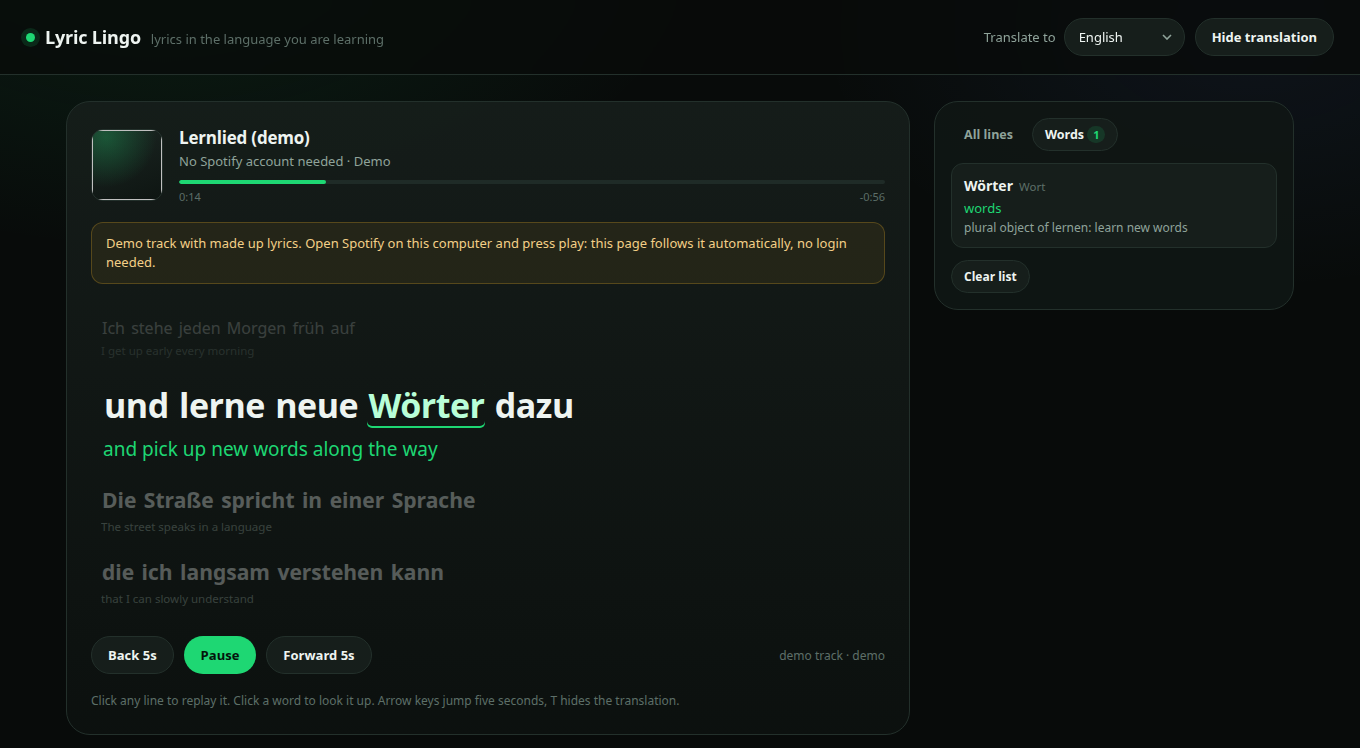
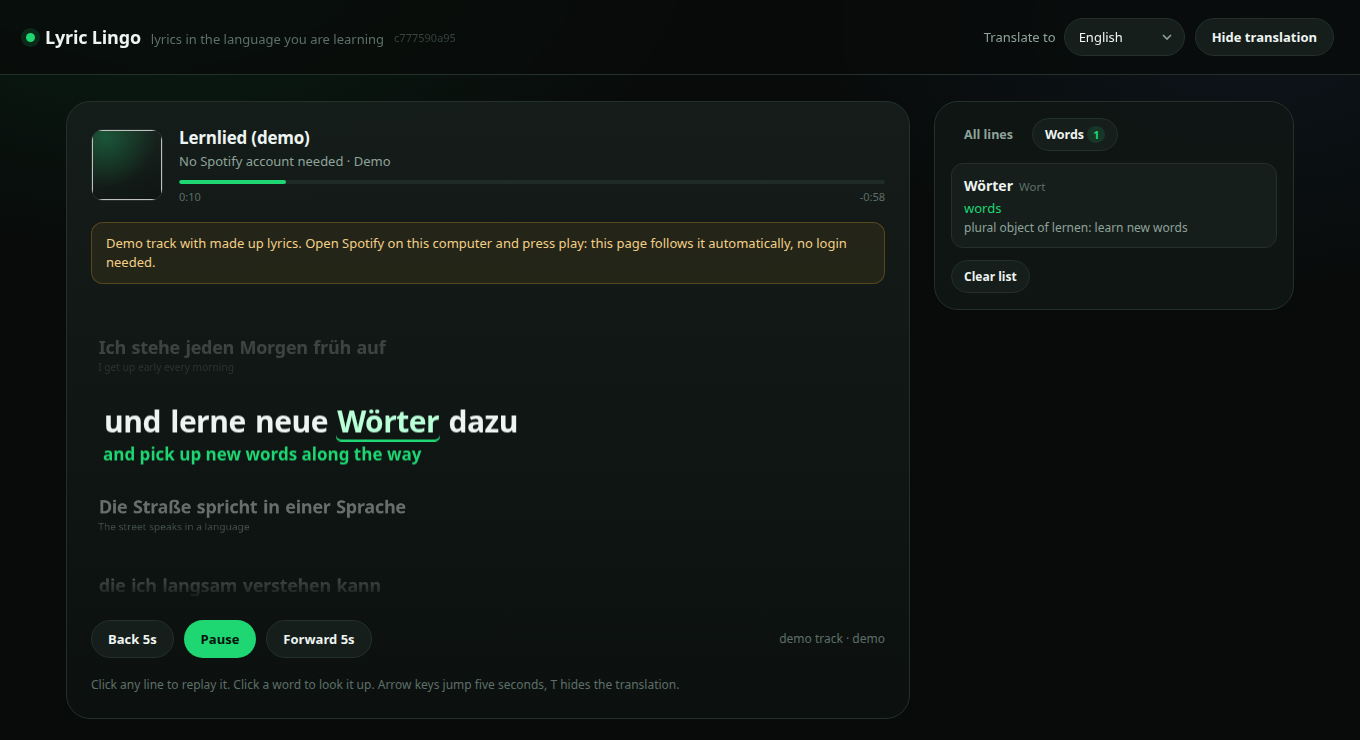
Animate line changes: persistent lyric column that glides and scales

diff --git a/public/app.js b/public/app.js
@@ -39,6 +39,8 @@ const state = {
   anchor: { progress: 0, at: performance.now(), playing: false },
   vocab: readVocab(),
   busy: new Set(),
+  strip: null,
+  lineEls: [],
 };
 
 function readVocab() {
@@ -153,9 +155,12 @@ function lineNode(seg, index, klass) {
   return wrap;
 }
 
-function renderKaraoke(index) {
+function buildKaraoke() {
   const segs = state.data?.segments || [];
+  state.lineEls = [];
+  state.strip = null;
   ui.karaoke.replaceChildren();
+
   if (!segs.length) {
     const empty = document.createElement("div");
     empty.className = "skeleton";
@@ -165,18 +170,34 @@ function renderKaraoke(index) {
     ui.karaoke.append(empty);
     return;
   }
-  const start = Math.max(0, index - 2);
-  const end = Math.min(segs.length, index + 3);
-  if (index < 0 && start === 0) {
-    for (let i = 0; i < Math.min(3, segs.length); i++) {
-      ui.karaoke.append(lineNode(segs[i], i, i === 0 ? "current" : "next"));
-    }
-    return;
-  }
-  for (let i = start; i < end; i++) {
-    const klass = i === index ? "current" : i < index ? "past" : "next";
-    ui.karaoke.append(lineNode(segs[i], i, klass));
-  }
+
+  // Every line lives in the DOM once. Line changes only swap classes and move
+  // the strip, so the browser can animate between states instead of repainting
+  // a fresh list. Transforms keep the layout stable while the type scales.
+  const strip = document.createElement("div");
+  strip.className = "strip no-anim";
+  segs.forEach((seg, i) => {
+    const node = lineNode(seg, i, "");
+    strip.append(node);
+    state.lineEls.push(node);
+  });
+  ui.karaoke.append(strip);
+  state.strip = strip;
+  requestAnimationFrame(() => requestAnimationFrame(() => strip.classList.remove("no-anim")));
+}
+
+function highlightLine(index) {
+  if (!state.lineEls?.length) return;
+  const at = Math.max(0, Math.min(index, state.lineEls.length - 1));
+  state.lineEls.forEach((node, i) => {
+    node.classList.toggle("current", i === at);
+    node.classList.toggle("past", i < at);
+    node.classList.toggle("next", i > at);
+  });
+  const active = state.lineEls[at];
+  if (!active || !state.strip) return;
+  const shift = active.offsetTop + active.offsetHeight / 2 - ui.karaoke.clientHeight * 0.44;
+  state.strip.style.transform = `translate3d(0, ${-shift}px, 0)`;
 }
 
 function renderAllLines() {
@@ -380,7 +401,7 @@ async function poll() {
     // Re-anchor only on a new track or when Spotify's clock really drifted.
     // Preview and demo pages keep reporting the same position, so trust ours.
     const drift = Math.abs(position() - reported);
-    if (newTrack || drift > 1500) {
+    if (newTrack || (!data.track?.demo && drift > 1500)) {
       state.anchor = { progress: reported, at: performance.now(), playing: Boolean(data.playing) };
     } else {
       state.anchor.playing = Boolean(data.playing);
@@ -404,6 +425,7 @@ async function poll() {
       state.trackId = trackKey;
       state.renderedIndex = -2;
       renderAllLines();
+      buildKaraoke();
       renderWords();
       markSavedWords();
       if (preview.get("at") && data.track?.demo) {
@@ -438,7 +460,7 @@ function frame() {
     const index = currentIndex(ms / 1000);
     if (index !== state.renderedIndex) {
       state.renderedIndex = index;
-      renderKaraoke(index);
+      highlightLine(index);
       highlightSidebar(index);
     }
   }
@@ -457,6 +479,8 @@ function initLanguage() {
     state.lang = ui.lang.value;
     localStorage.setItem(LANG_KEY, state.lang);
     state.trackId = null;
+    state.lineEls = [];
+    state.strip = null;
     ui.karaoke.innerHTML = '<div class="skeleton">Translating...</div>';
     poll();
   });
@@ -515,6 +539,8 @@ document.addEventListener("visibilitychange", () => {
 });
 
 ui.build.textContent = MY_BUILD === "dev" ? "" : MY_BUILD;
+window.addEventListener("resize", () => highlightLine(state.renderedIndex));
+
 initLanguage();
 initTabs();
 initTranslationToggle();

diff --git a/public/styles.css b/public/styles.css
@@ -150,40 +150,76 @@ button:active { transform: scale(0.98); }
 }
 
 .karaoke {
+  position: relative;
   flex: 1;
+  min-height: 300px;
+  overflow: hidden;
+  padding: 0 2px;
+  /* fade the column into the card at the top and bottom edges */
+  -webkit-mask-image: linear-gradient(to bottom, transparent 0, #000 13%, #000 87%, transparent 100%);
+  mask-image: linear-gradient(to bottom, transparent 0, #000 13%, #000 87%, transparent 100%);
+}
+
+.strip {
+  position: absolute;
+  inset: 0 0 auto 0;
   display: flex;
   flex-direction: column;
-  justify-content: center;
-  gap: 12px;
-  padding: 10px 0 6px;
-  min-height: 280px;
+  gap: 2px;
+  transition: transform 0.62s cubic-bezier(0.22, 1, 0.36, 1);
+  will-change: transform;
 }
+.strip.no-anim { transition: none; }
 
 .line {
-  opacity: 0.32;
-  transition: opacity 0.25s ease, transform 0.25s ease;
-  padding: 6px 10px;
+  /* Fixed font size, emphasis done with scale: transforms leave the layout
+     untouched, so the strip can glide while the type grows. */
+  padding: 7px 12px;
   border-radius: 12px;
   cursor: pointer;
+  transform: scale(0.6);
+  transform-origin: left center;
+  opacity: 0.34;
+  transition:
+    transform 0.55s cubic-bezier(0.22, 1, 0.36, 1),
+    opacity 0.42s ease,
+    background 0.15s ease;
 }
-.line:hover { background: rgba(255, 255, 255, 0.03); opacity: 0.65; }
-.line .orig { line-height: 1.35; }
-.line .trans { color: var(--dim); font-size: 0.72em; line-height: 1.35; margin-top: 4px; }
-
-.line.current { opacity: 1; transform: translateX(2px); }
-.line.current .orig {
-  font-size: clamp(22px, 3.1vw, 34px);
-  font-weight: 650;
+.line .orig {
+  font-size: 30px;
+  line-height: 1.24;
+  font-weight: 600;
   letter-spacing: -0.5px;
 }
-.line.current .trans {
-  font-size: clamp(15px, 1.6vw, 19px);
-  color: var(--accent);
-  font-weight: 500;
-  margin-top: 8px;
+.line .trans {
+  color: var(--dim);
+  font-size: 17px;
+  line-height: 1.3;
+  margin-top: 4px;
 }
-.line.prev .orig, .line.next .orig { font-size: clamp(16px, 1.9vw, 21px); font-weight: 550; }
-.line.past { opacity: 0.18; }
+
+.line.next { opacity: 0.4; }
+.line.past { opacity: 0.2; }
+.line:hover { opacity: 0.62; background: rgba(255, 255, 255, 0.035); }
+
+.line.current {
+  transform: scale(1);
+  opacity: 1;
+}
+.line.current .orig,
+.line.current .trans {
+  animation: line-rise 0.5s cubic-bezier(0.22, 1, 0.36, 1) both;
+}
+.line.current .orig { font-weight: 700; }
+.line.current .trans { color: var(--accent); font-weight: 550; }
+
+/* A short lift as a line takes over, the way Spotify's lyric view settles. */
+@keyframes line-rise {
+  from { transform: translateY(9px); }
+  to { transform: translateY(0); }
+}
+.line.current:hover { background: transparent; }
+
 .line.estimated .orig::after {
   content: " ~";
   color: var(--faint);
@@ -192,12 +228,16 @@ button:active { transform: scale(0.98); }
 }
 
 body.hide-translation .line .trans { display: none; }
-body.hide-translation .line.current::after {
-  content: "translation hidden, press T";
-  display: block;
-  margin-top: 8px;
-  color: var(--faint);
-  font-size: 12px;
+
+@media (max-width: 720px) {
+  .line .orig { font-size: 24px; }
+  .line .trans { font-size: 15px; }
+  .karaoke { min-height: 240px; }
+}
+
+@media (prefers-reduced-motion: reduce) {
+  .strip, .line { transition: none; }
+  .line.current .orig, .line.current .trans { animation: none; }
 }
 
 .word {

diff --git a/README.md b/README.md
@@ -38,6 +38,8 @@ Open http://127.0.0.1:8899 and press play in Spotify.
 ## Using it
 
 - The big line is what you are hearing, the smaller green line is its translation.
+- The lyric column glides like Spotify's: the active line grows and lifts into
+  place, the lines it passes shrink and fade back.
 - Click any line in the karaoke view or the "All lines" list to jump there and
   hear it again. This seeks the actual Spotify playback.
 - Pause, Play, Back 5s and Forward 5s drive the real player, not a local
